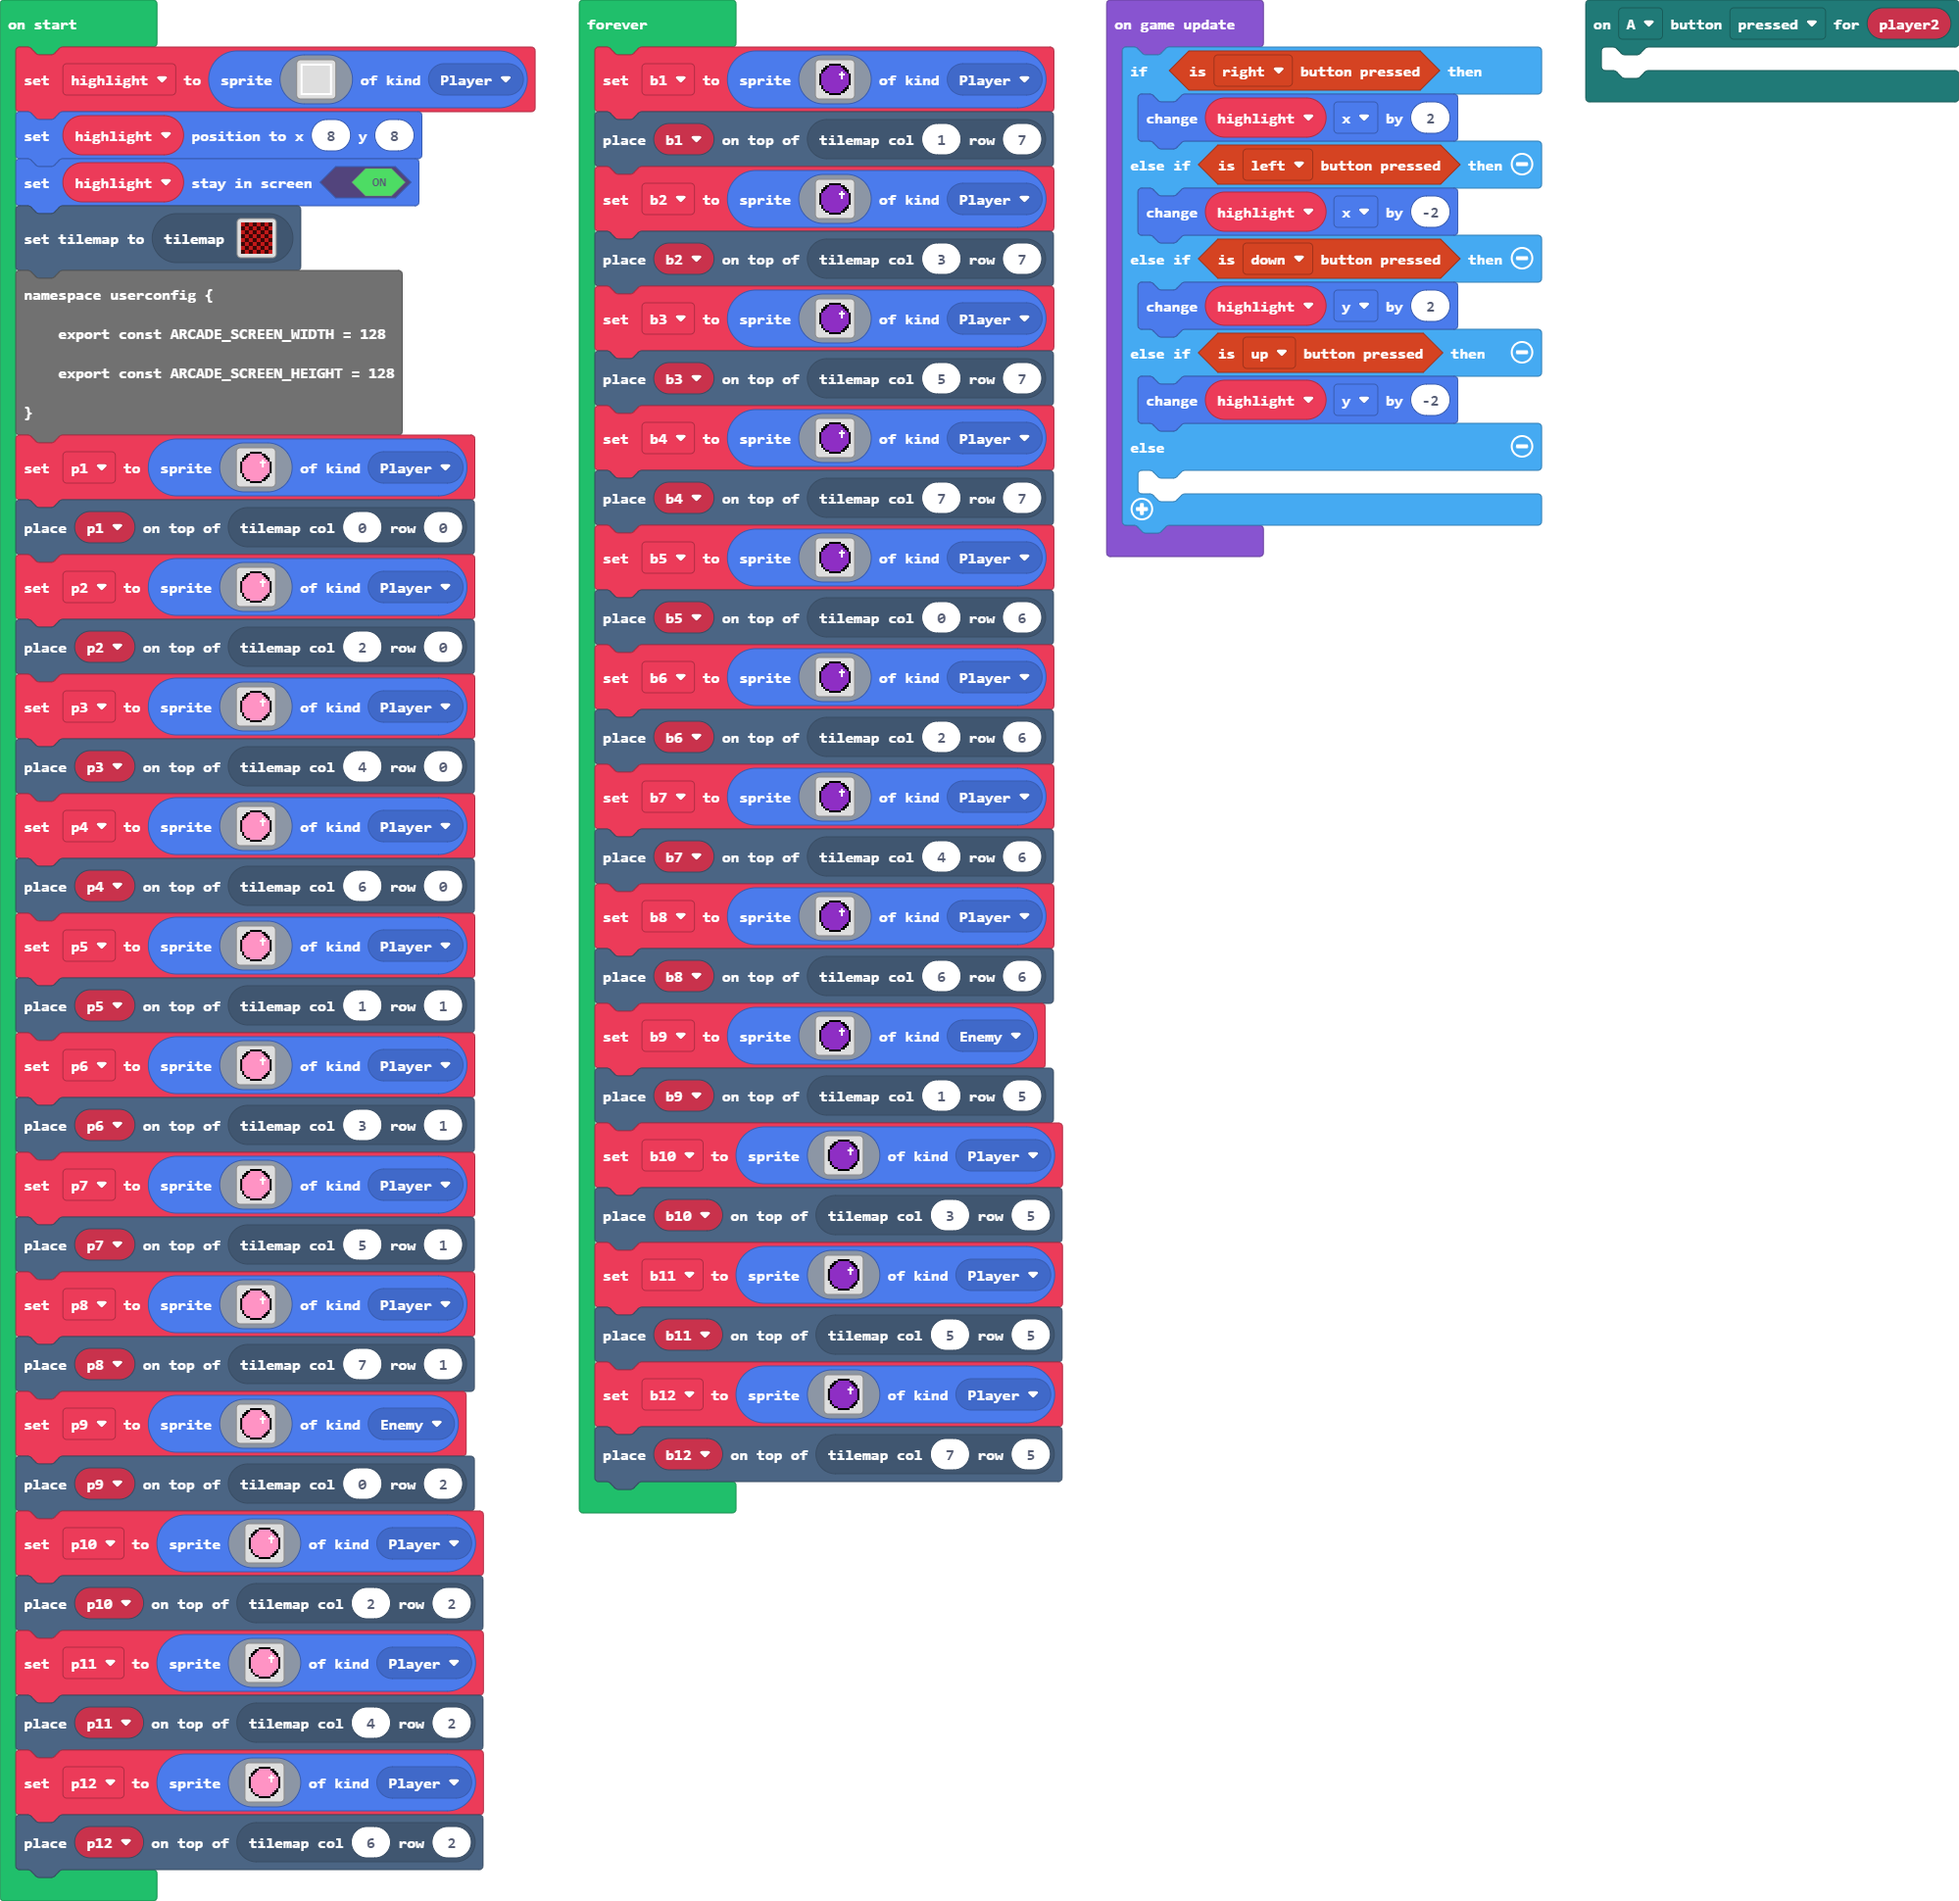
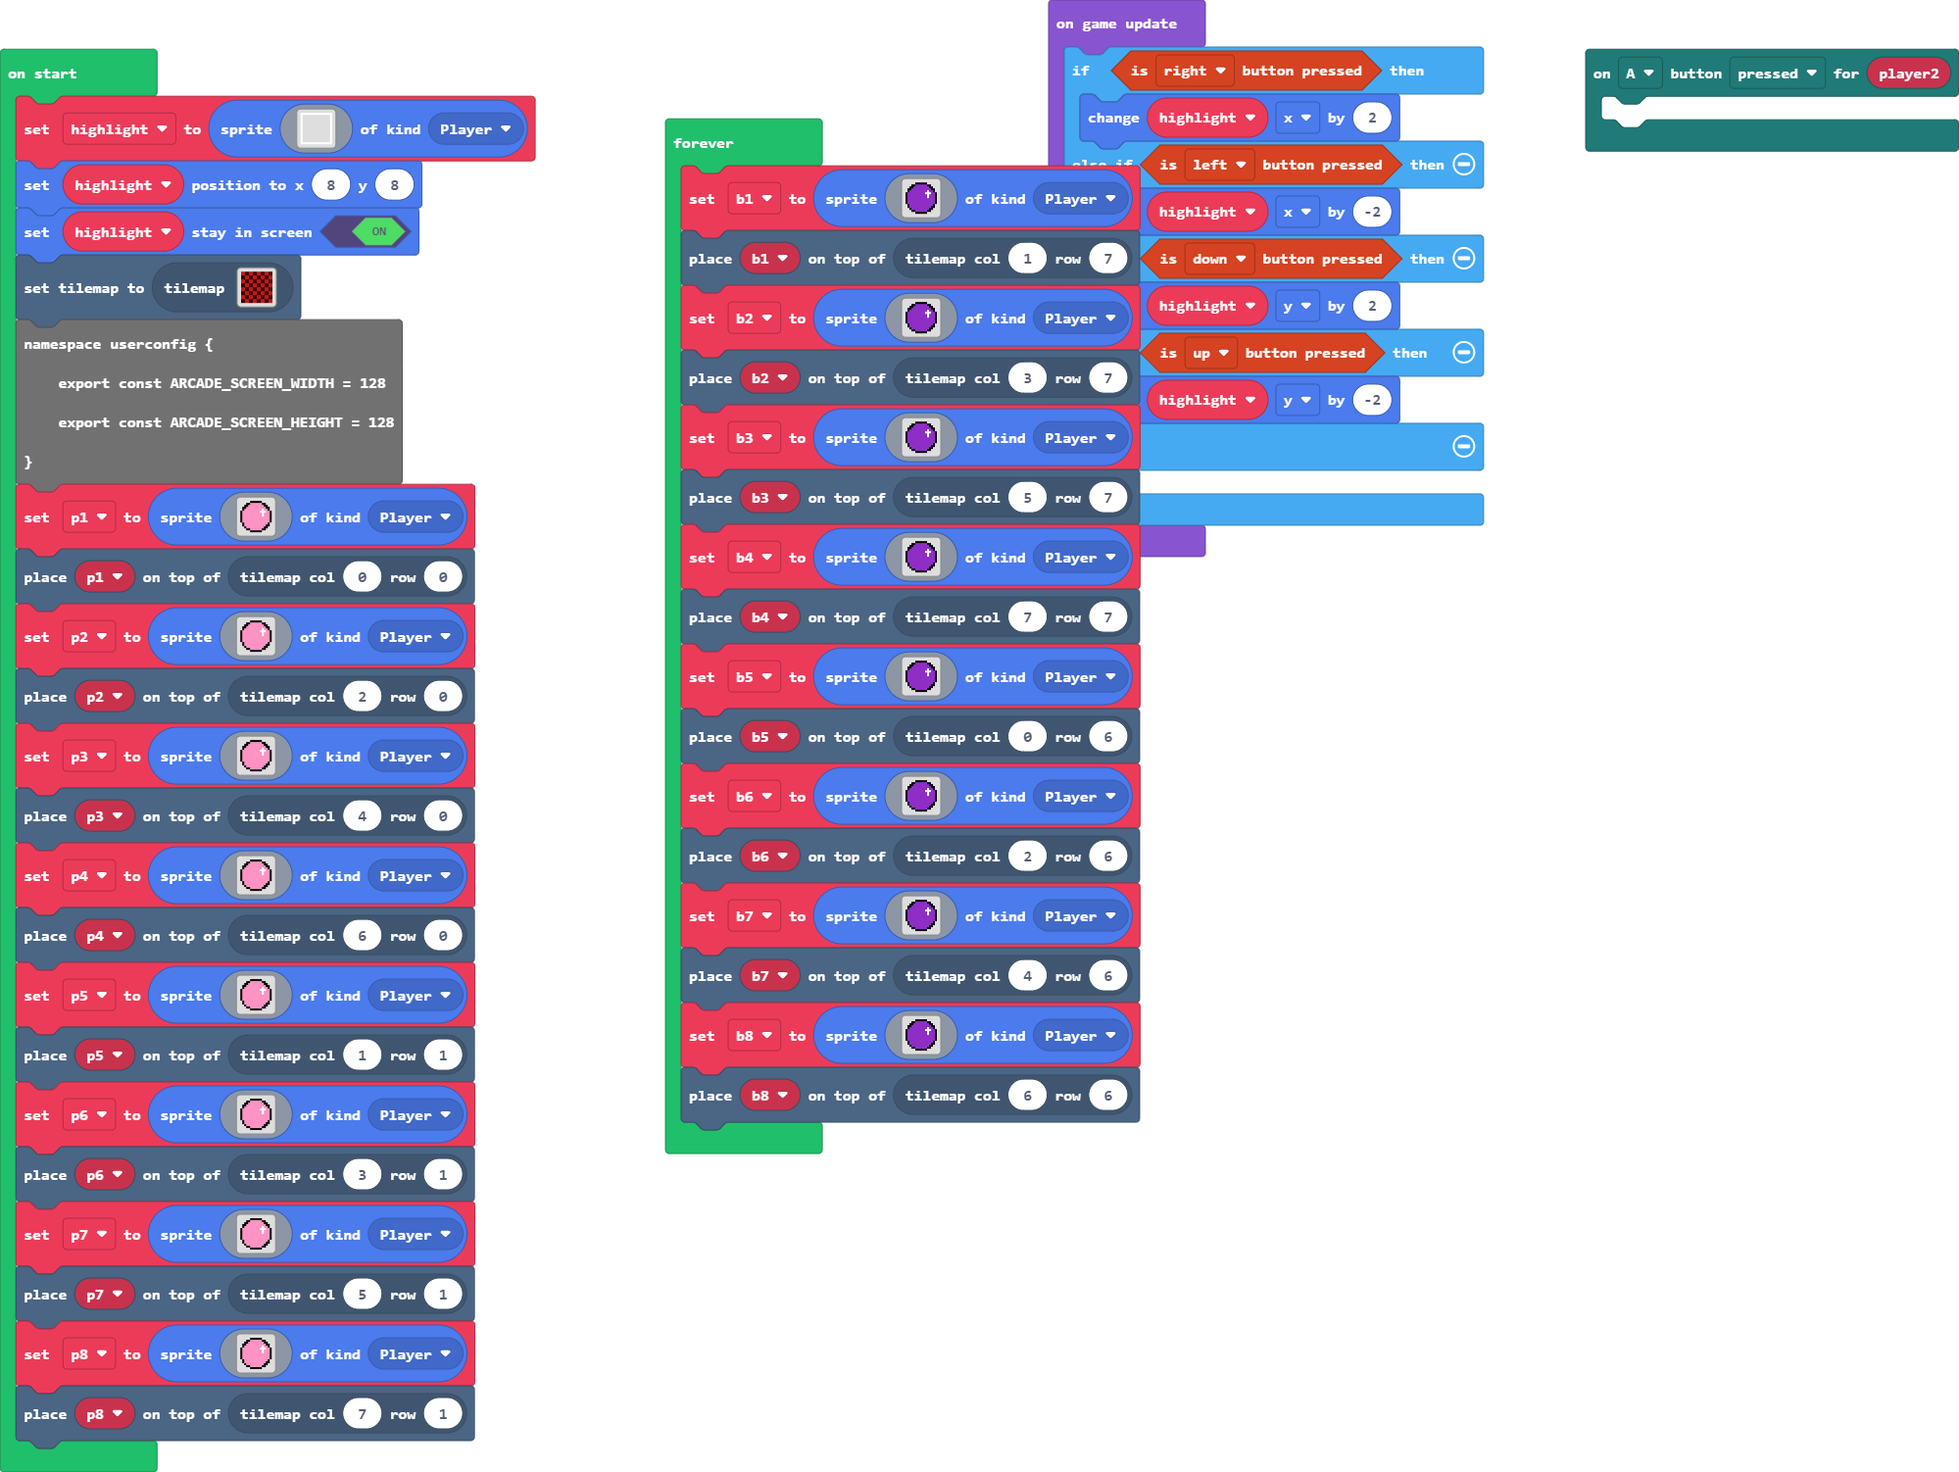
Update main.blocks, main.ts, tilemap.g.jres, tilemap.g.ts

diff --git a/main.ts b/main.ts
@@ -1,10 +1,6 @@
 mp.onButtonEvent(mp.MultiplayerButton.A, ControllerButtonEvent.Pressed, function (player2) {
 	
 })
-let b12: Sprite = null
-let b11: Sprite = null
-let b10: Sprite = null
-let b9: Sprite = null
 let b8: Sprite = null
 let b7: Sprite = null
 let b6: Sprite = null
@@ -190,82 +186,6 @@ let p8 = sprites.create(img`
     . . . . . f f f f f f . . . . . 
     `, SpriteKind.Player)
 tiles.placeOnTile(p8, tiles.getTileLocation(7, 1))
-let p9 = sprites.create(img`
-    . . . . . f f f f f f . . . . . 
-    . . . f f 3 3 3 3 3 3 f f . . . 
-    . . f f 3 3 3 3 3 3 3 3 f f . . 
-    . f f 3 3 3 3 3 3 3 3 3 3 f f . 
-    . f 3 3 3 3 3 3 3 3 3 1 3 3 f . 
-    f 3 3 3 3 3 3 3 3 3 1 1 1 3 3 f 
-    f 3 3 3 3 3 3 3 3 3 3 1 3 3 3 f 
-    f 3 3 3 3 3 3 3 3 3 3 1 3 3 3 f 
-    f 3 3 3 3 3 3 3 3 3 3 3 3 3 3 f 
-    f 3 3 3 3 3 3 3 3 3 3 3 3 3 3 f 
-    f 3 3 3 3 3 3 3 3 3 3 3 3 3 3 f 
-    . f 3 3 3 3 3 3 3 3 3 3 3 3 f . 
-    . f 3 3 3 3 3 3 3 3 3 3 3 f f . 
-    . . f 3 3 3 3 3 3 3 3 3 f f . . 
-    . . . f f 3 3 3 3 3 3 f f . . . 
-    . . . . . f f f f f f . . . . . 
-    `, SpriteKind.Enemy)
-tiles.placeOnTile(p9, tiles.getTileLocation(0, 2))
-let p10 = sprites.create(img`
-    . . . . . f f f f f f . . . . . 
-    . . . f f 3 3 3 3 3 3 f f . . . 
-    . . f f 3 3 3 3 3 3 3 3 f f . . 
-    . f f 3 3 3 3 3 3 3 3 3 3 f f . 
-    . f 3 3 3 3 3 3 3 3 3 1 3 3 f . 
-    f 3 3 3 3 3 3 3 3 3 1 1 1 3 3 f 
-    f 3 3 3 3 3 3 3 3 3 3 1 3 3 3 f 
-    f 3 3 3 3 3 3 3 3 3 3 1 3 3 3 f 
-    f 3 3 3 3 3 3 3 3 3 3 3 3 3 3 f 
-    f 3 3 3 3 3 3 3 3 3 3 3 3 3 3 f 
-    f 3 3 3 3 3 3 3 3 3 3 3 3 3 3 f 
-    . f 3 3 3 3 3 3 3 3 3 3 3 3 f . 
-    . f 3 3 3 3 3 3 3 3 3 3 3 f f . 
-    . . f 3 3 3 3 3 3 3 3 3 f f . . 
-    . . . f f 3 3 3 3 3 3 f f . . . 
-    . . . . . f f f f f f . . . . . 
-    `, SpriteKind.Player)
-tiles.placeOnTile(p10, tiles.getTileLocation(2, 2))
-let p11 = sprites.create(img`
-    . . . . . f f f f f f . . . . . 
-    . . . f f 3 3 3 3 3 3 f f . . . 
-    . . f f 3 3 3 3 3 3 3 3 f f . . 
-    . f f 3 3 3 3 3 3 3 3 3 3 f f . 
-    . f 3 3 3 3 3 3 3 3 3 1 3 3 f . 
-    f 3 3 3 3 3 3 3 3 3 1 1 1 3 3 f 
-    f 3 3 3 3 3 3 3 3 3 3 1 3 3 3 f 
-    f 3 3 3 3 3 3 3 3 3 3 1 3 3 3 f 
-    f 3 3 3 3 3 3 3 3 3 3 3 3 3 3 f 
-    f 3 3 3 3 3 3 3 3 3 3 3 3 3 3 f 
-    f 3 3 3 3 3 3 3 3 3 3 3 3 3 3 f 
-    . f 3 3 3 3 3 3 3 3 3 3 3 3 f . 
-    . f 3 3 3 3 3 3 3 3 3 3 3 f f . 
-    . . f 3 3 3 3 3 3 3 3 3 f f . . 
-    . . . f f 3 3 3 3 3 3 f f . . . 
-    . . . . . f f f f f f . . . . . 
-    `, SpriteKind.Player)
-tiles.placeOnTile(p11, tiles.getTileLocation(4, 2))
-let p12 = sprites.create(img`
-    . . . . . f f f f f f . . . . . 
-    . . . f f 3 3 3 3 3 3 f f . . . 
-    . . f f 3 3 3 3 3 3 3 3 f f . . 
-    . f f 3 3 3 3 3 3 3 3 3 3 f f . 
-    . f 3 3 3 3 3 3 3 3 3 1 3 3 f . 
-    f 3 3 3 3 3 3 3 3 3 1 1 1 3 3 f 
-    f 3 3 3 3 3 3 3 3 3 3 1 3 3 3 f 
-    f 3 3 3 3 3 3 3 3 3 3 1 3 3 3 f 
-    f 3 3 3 3 3 3 3 3 3 3 3 3 3 3 f 
-    f 3 3 3 3 3 3 3 3 3 3 3 3 3 3 f 
-    f 3 3 3 3 3 3 3 3 3 3 3 3 3 3 f 
-    . f 3 3 3 3 3 3 3 3 3 3 3 3 f . 
-    . f 3 3 3 3 3 3 3 3 3 3 3 f f . 
-    . . f 3 3 3 3 3 3 3 3 3 f f . . 
-    . . . f f 3 3 3 3 3 3 f f . . . 
-    . . . . . f f f f f f . . . . . 
-    `, SpriteKind.Player)
-tiles.placeOnTile(p12, tiles.getTileLocation(6, 2))
 game.onUpdate(function () {
     if (controller.right.isPressed()) {
         highlight.x += 2
@@ -432,80 +352,4 @@ forever(function () {
         . . . . . f f f f f f . . . . . 
         `, SpriteKind.Player)
     tiles.placeOnTile(b8, tiles.getTileLocation(6, 6))
-    b9 = sprites.create(img`
-        . . . . . f f f f f f . . . . . 
-        . . . f f a a a a a a f f . . . 
-        . . f f a a a a a a a a f f . . 
-        . f f a a a a a a a a a a f f . 
-        . f a a a a a a a a a 1 a a f . 
-        f a a a a a a a a a 1 1 1 a a f 
-        f a a a a a a a a a a 1 a a a f 
-        f a a a a a a a a a a 1 a a a f 
-        f a a a a a a a a a a a a a a f 
-        f a a a a a a a a a a a a a a f 
-        f a a a a a a a a a a a a a a f 
-        . f a a a a a a a a a a a a f . 
-        . f a a a a a a a a a a a f f . 
-        . . f a a a a a a a a a f f . . 
-        . . . f f a a a a a a f f . . . 
-        . . . . . f f f f f f . . . . . 
-        `, SpriteKind.Enemy)
-    tiles.placeOnTile(b9, tiles.getTileLocation(1, 5))
-    b10 = sprites.create(img`
-        . . . . . f f f f f f . . . . . 
-        . . . f f a a a a a a f f . . . 
-        . . f f a a a a a a a a f f . . 
-        . f f a a a a a a a a a a f f . 
-        . f a a a a a a a a a 1 a a f . 
-        f a a a a a a a a a 1 1 1 a a f 
-        f a a a a a a a a a a 1 a a a f 
-        f a a a a a a a a a a 1 a a a f 
-        f a a a a a a a a a a a a a a f 
-        f a a a a a a a a a a a a a a f 
-        f a a a a a a a a a a a a a a f 
-        . f a a a a a a a a a a a a f . 
-        . f a a a a a a a a a a a f f . 
-        . . f a a a a a a a a a f f . . 
-        . . . f f a a a a a a f f . . . 
-        . . . . . f f f f f f . . . . . 
-        `, SpriteKind.Player)
-    tiles.placeOnTile(b10, tiles.getTileLocation(3, 5))
-    b11 = sprites.create(img`
-        . . . . . f f f f f f . . . . . 
-        . . . f f a a a a a a f f . . . 
-        . . f f a a a a a a a a f f . . 
-        . f f a a a a a a a a a a f f . 
-        . f a a a a a a a a a 1 a a f . 
-        f a a a a a a a a a 1 1 1 a a f 
-        f a a a a a a a a a a 1 a a a f 
-        f a a a a a a a a a a 1 a a a f 
-        f a a a a a a a a a a a a a a f 
-        f a a a a a a a a a a a a a a f 
-        f a a a a a a a a a a a a a a f 
-        . f a a a a a a a a a a a a f . 
-        . f a a a a a a a a a a a f f . 
-        . . f a a a a a a a a a f f . . 
-        . . . f f a a a a a a f f . . . 
-        . . . . . f f f f f f . . . . . 
-        `, SpriteKind.Player)
-    tiles.placeOnTile(b11, tiles.getTileLocation(5, 5))
-    b12 = sprites.create(img`
-        . . . . . f f f f f f . . . . . 
-        . . . f f a a a a a a f f . . . 
-        . . f f a a a a a a a a f f . . 
-        . f f a a a a a a a a a a f f . 
-        . f a a a a a a a a a 1 a a f . 
-        f a a a a a a a a a 1 1 1 a a f 
-        f a a a a a a a a a a 1 a a a f 
-        f a a a a a a a a a a 1 a a a f 
-        f a a a a a a a a a a a a a a f 
-        f a a a a a a a a a a a a a a f 
-        f a a a a a a a a a a a a a a f 
-        . f a a a a a a a a a a a a f . 
-        . f a a a a a a a a a a a f f . 
-        . . f a a a a a a a a a f f . . 
-        . . . f f a a a a a a f f . . . 
-        . . . . . f f f f f f . . . . . 
-        `, SpriteKind.Player)
-    tiles.placeOnTile(b12, tiles.getTileLocation(7, 5))
 })

diff --git a/tilemap.g.ts b/tilemap.g.ts
@@ -62,6 +62,25 @@ namespace myTiles {
 . . . . . . . . . . . . . . . . 
 . . . . . . . . . . . . . . . . 
 `, [myTiles.transparency16], TileScale.Sixteen);
+            case "level4":
+            case "level4":return tiles.createTilemap(hex`1000100000000000000000000000000000000000000000000000000000000000000000000000000000000000000000000000000000000000000000000000000000000000000000000000000000000000000000000000000000000000000000000000000000000000000000000000000000000000000000000000000000000000000000000000000000000000000000000000000000000000000000000000000000000000000000000000000000000000000000000000000000000000000000000000000000000000000000000000000000000000000000000000000000000000000000000000000000000000000000000000000000000000000000000000000000000000`, img`
+. . . . . . . . . . . . . . . . 
+. . . . . . . . . . . . . . . . 
+. . . . . . . . . . . . . . . . 
+. . . . . . . . . . . . . . . . 
+. . . . . . . . . . . . . . . . 
+. . . . . . . . . . . . . . . . 
+. . . . . . . . . . . . . . . . 
+. . . . . . . . . . . . . . . . 
+. . . . . . . . . . . . . . . . 
+. . . . . . . . . . . . . . . . 
+. . . . . . . . . . . . . . . . 
+. . . . . . . . . . . . . . . . 
+. . . . . . . . . . . . . . . . 
+. . . . . . . . . . . . . . . . 
+. . . . . . . . . . . . . . . . 
+. . . . . . . . . . . . . . . . 
+`, [myTiles.transparency16], TileScale.Sixteen);
         }
         return null;
     })
